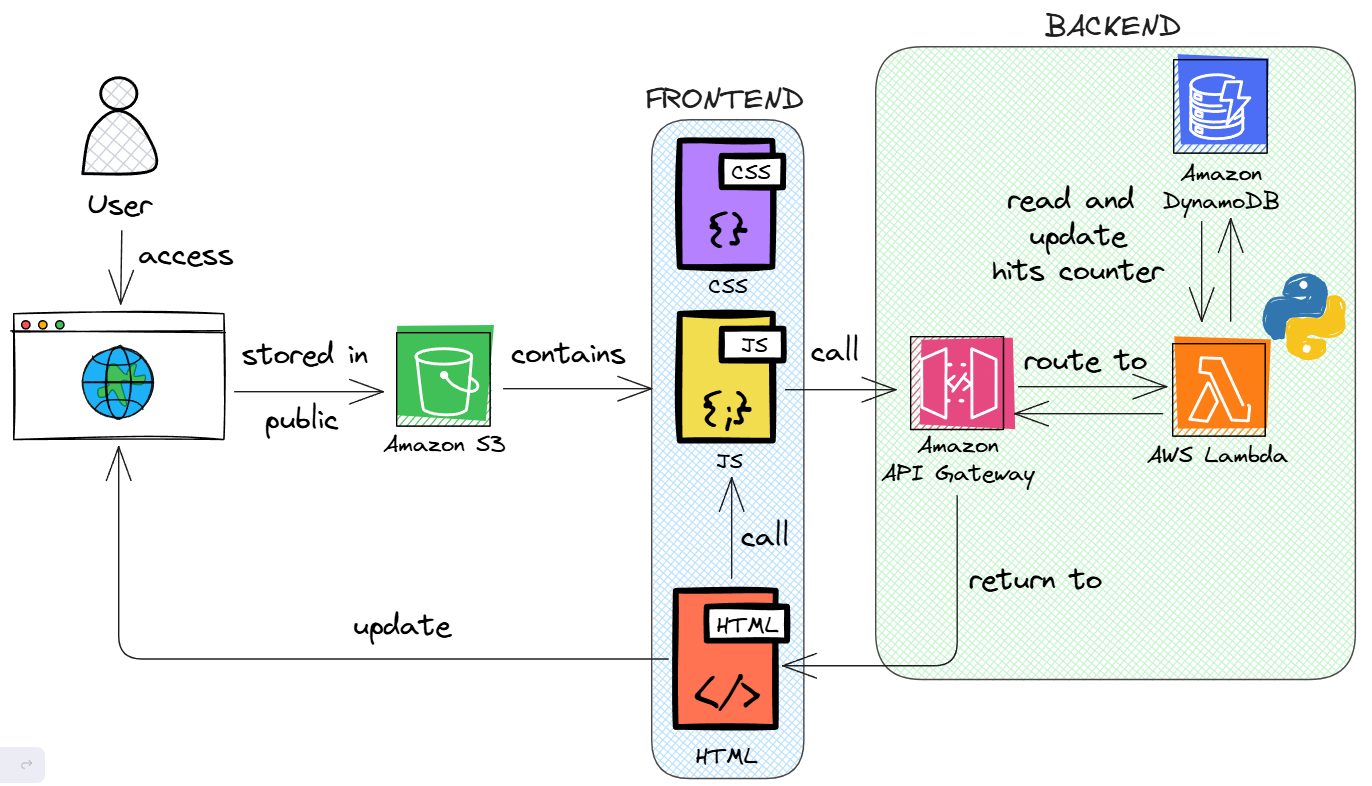
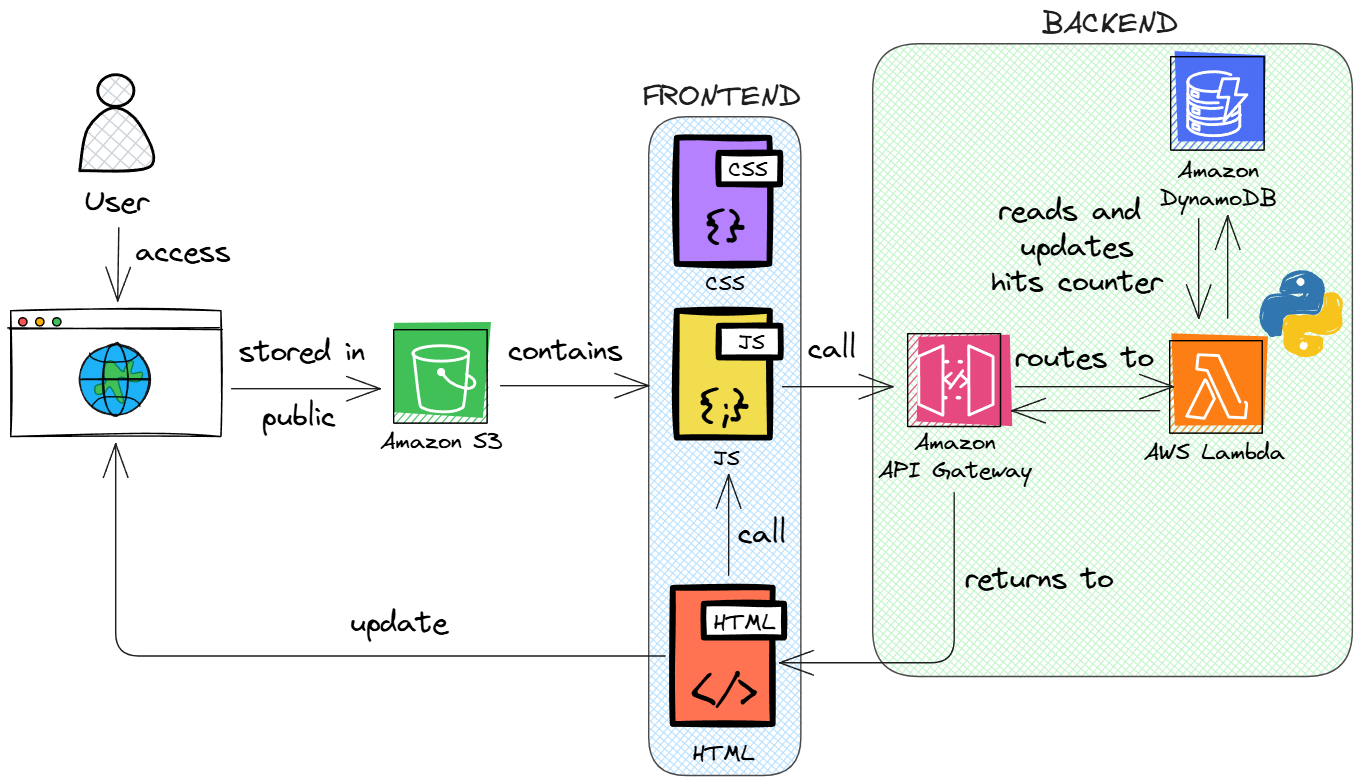
fix: grammar typos

diff --git a/docs/README.md b/docs/README.md
@@ -15,14 +15,14 @@
 ### 📂 Website structure
 
 - `index.html`: Main HTML resume page.
-- `style.css`: Contains CSS formating applied to HTML.
+- `style.css`: Contains CSS formatting applied to HTML.
 - `visitors_counter.js`: Contains the visitor counter JavaScript implementation calling backend services.
 
 ### 🔢 Visitors counter
 
-The visitors counter were implemented in pure JavaScript and can be found here. It basically invokes the API Gateway and receive it's response and update it into HTML element to be displayed on webpage. Each webpage hit increments one at the visitors counter.
+The visitors counter was implemented in pure JavaScript and can be found here. It invokes the API Gateway to receive its response and update it into an HTML element to be displayed on the webpage. Each webpage hit increments one at the visitor's counter.
 
-⚠ It is important to highlight that it's simply count each hit on webpage, and not the number of unique visitors (by capturing IP address or coockies for example).
+⚠ It is important to highlight that it simply counts each hit on the webpage, not the number of unique visitors (by capturing IP addresses or cookies, for example).
 
 ## ⚙ Backend documentation
 
@@ -41,18 +41,18 @@ The visitors counter were implemented in pure JavaScript and can be found here. 
 
 #### 📰 Lambda Function
 
-The Lambda Function implements the reading and updating visitors counter information stored in DynamoDB. It adds one to a record each time the funcion is invoked. The implementation was provided in Python language and can be found at this file.
+The Lambda Function implements the reading and updating visitors counter information stored in DynamoDB. It adds one to a record each time the function is invoked. The implementation was provided in Python language and can be found in this file.
 
 #### 📊 DynamoDB
 
-The DynamoDB store the number of visitors at resume website. A record is read and updated by one unit trought Lambda Funtion each time that someone clicks on page.
+The DynamoDB store the number of visitors to the resume website. A record is read and updated by one unit through Lambda Function each time that someone clicks on the page.
 
 ### 🔐 IAM roles and permissions
 
 - Lambda execution role with DynamoDB access.
 - API Gateway permissions to invoke Lambda.
 - S3 bucket policy for public read access.
-- CORS enabled for S3 website domain for security purposes.
+- CORS is enabled for security purposes in the S3 website domain.
 
 ## 🤑 Cost analysis
 

diff --git a/README.md b/README.md
@@ -6,9 +6,10 @@ Hey there! 👋 I'm Henrique Branco, a machine learning engineer passionate abou
 
 ## 🏗 Project overview
 
-This project showcases not just my resume, but also my hands-on experience with AWS services. It implements a static HTML resume website containing my resume with a dynamic visitor counter. Every time someone click on the resume webpage, a JavaScript function triggers an AWS API Gateway endpoint, which invokes a Lambda function to increment a counter stored in DynamoDB. Then, the webpage is upated to display that information.
+This project showcases not just my resume, but also my hands-on experience with AWS services. It implements a static HTML resume website containing my resume with a dynamic visitor counter. Every time someone clicks on the resume webpage, a JavaScript function triggers an AWS API Gateway endpoint, which invokes a Lambda function to increment a counter stored in DynamoDB. Then, the webpage is updated to display that information.
 
 Are you curious about the project's documentation and architecture or how it was designed? Check it [here](./docs/README.md)!
+
 Or if you want just to visit my resume, click [here](http://henrique-awscv.com.s3-website-us-east-1.amazonaws.com/).
 
 Feel free to check out my work and get in touch!
